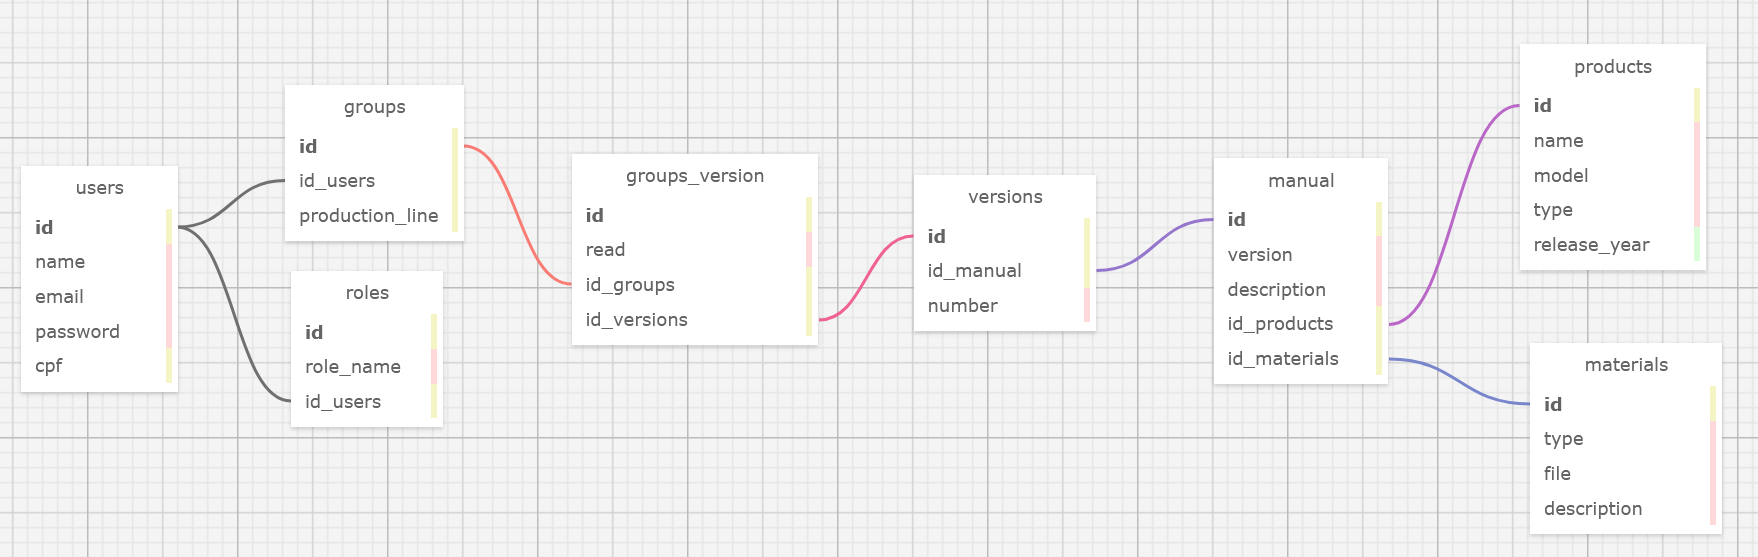
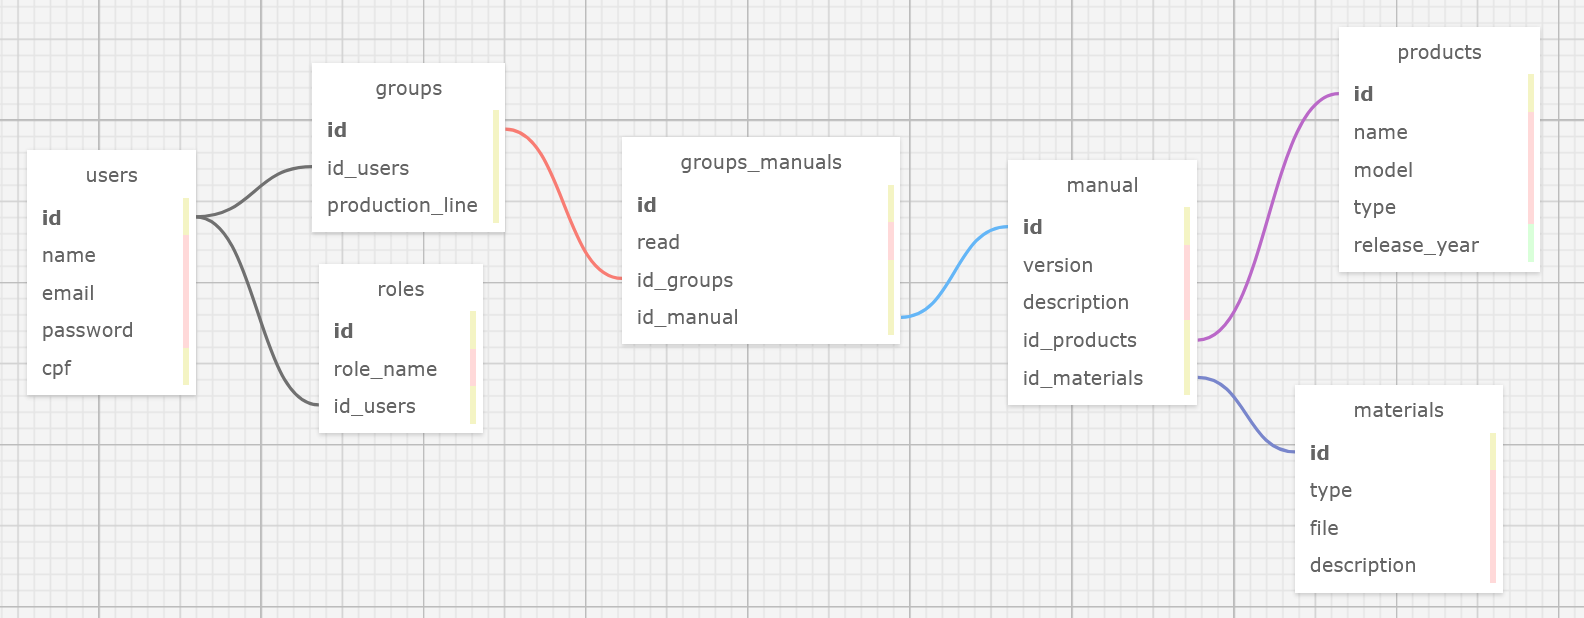
Adição do ReadMe e correção nos documentos

diff --git a/README.md b/README.md
@@ -1,1 +1,51 @@
 # Modelagem-BD
+
+
+&nbsp;&nbsp;&nbsp;&nbsp;O modelo lógico apresentado abaixo é uma proposta de banco de dados para o projeto com a DELL. Neste repositório há também os arquivos em SQL e XML gerados pelo site SQL Designer.
+
+
+<div align="center"> <sub> Modelo Lógico </sub>
+<img src="assets/modelo_logico.png">
+<sup>Fonte: Material produzido pelo autor (2024).</sup> </div>
+
+
+## Cardinalidade
+
+
+- User > Roles:
+    - Relação N para 1;
+    - Um usuário tem apenas um cargo atribuído a ele e cada cargo pode ser atribuído a vários usuários;
+    - Chave primária: id (users);
+    - Chave estrangeira: id_users presente na tabela roles;
+<br>
+
+
+- User > Groups:
+    - Relação N para 1;
+    - Um usuário pode estar atribuído a apenas uma linha de produção por vez e cada linha de produção pode ter vários usuários atrelados a ela;
+    - Chave primária: id (users);
+    - Chave estrangeira: id_users presente na tabela groups;
+<br>
+
+
+- Materials > Manual:
+    - Relação N para 1;
+    - Um material, seja ele um PDF, vídeo ou imagem pode estar ligado a apenas um manual e cada manual pode ter vários materiais ligados a ele.
+    - Chave primária: id (materials);
+    - Chave estrangeira: id_materials presente na tabela manuals;
+<br>
+
+
+- Products > Manual:
+    - Relação N para 1;
+    - Cada produto possui vários manuais e cada manual está ligado a apenas um produto;
+    - Chave primária: id (products);
+    - Chave estrangeira: id_products presente na tabela manuals;
+<br>
+
+
+- Manual > Groups:
+    - Relação N para N;
+    - Uma linha de produção ou usuário tem vários manuais atribuídos para leitura e cada manual pode ser atribuído para várias linhas de produção ou pessoas individualmente;
+    - A tabela de associação criada para essa relação se chama "groups_manuals" e além de receber a chave estrangeira das duas tabelas ela também armazena a informação se o manual foi lido ou não pelo usuário ou linha de produção;
+    - O ID de cada tabela é utilizado como chave estrangeira da tabela de associação;
